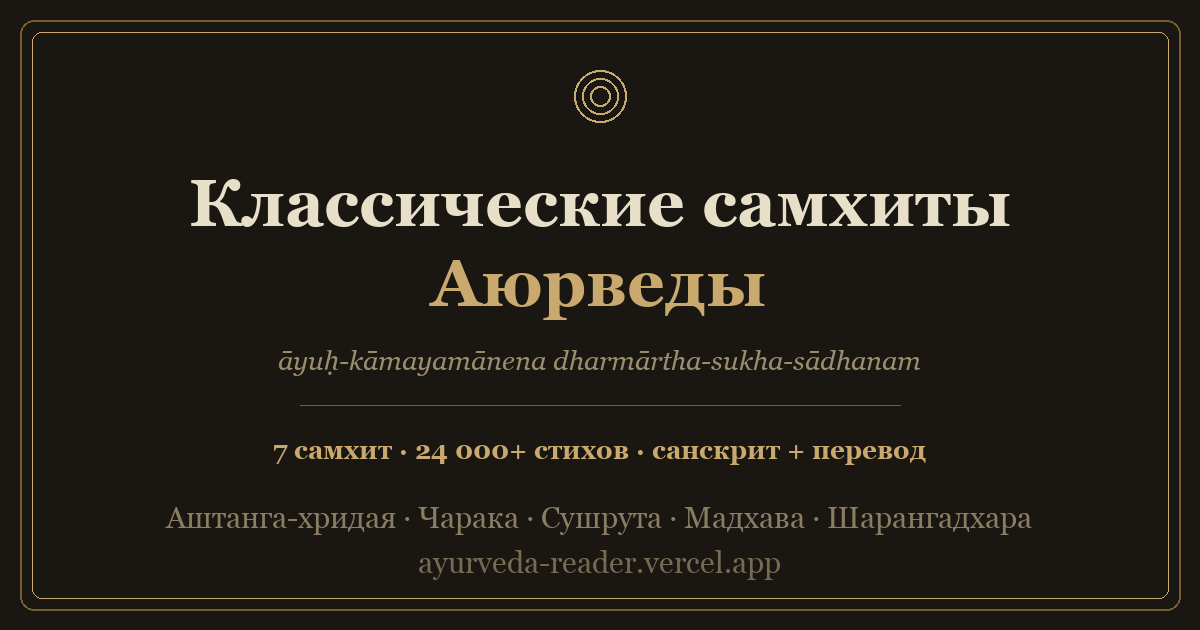
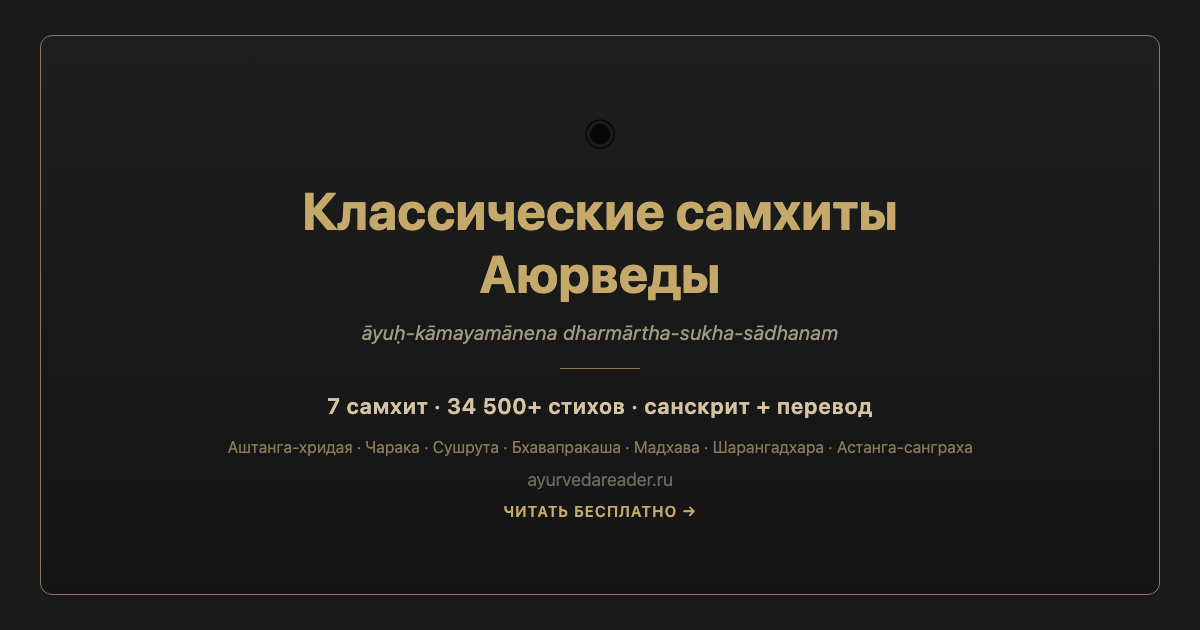
fix(seo): обновлён og-image (34 500+ стихов, 7 книг, CTA) и og:title (50+ символов)

diff --git a/index.html b/index.html
@@ -53,7 +53,7 @@
   <!-- Open Graph (соцсети) -->
   <meta property="og:type"        content="website" />
   <meta property="og:url"         content="https://ayurvedareader.ru/" />
-  <meta property="og:title"       content="Классические самхиты Аюрведы" />
+  <meta property="og:title"       content="Классические самхиты Аюрведы — бесплатная онлайн-библиотека" />
   <meta property="og:description" content="34 541 шлока из 7 классических самхит Аюрведы · оригинал, IAST и перевод · глоссарий · энциклопедия · тест Пракрити · бесплатно" />
   <meta property="og:locale"      content="ru_RU" />
   <meta property="og:image"       content="https://ayurvedareader.ru/og-image.png" />
